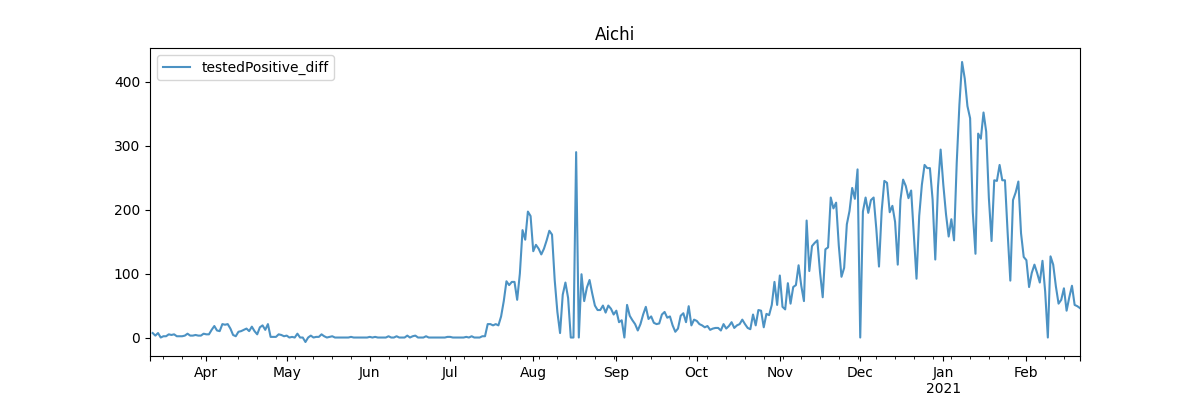
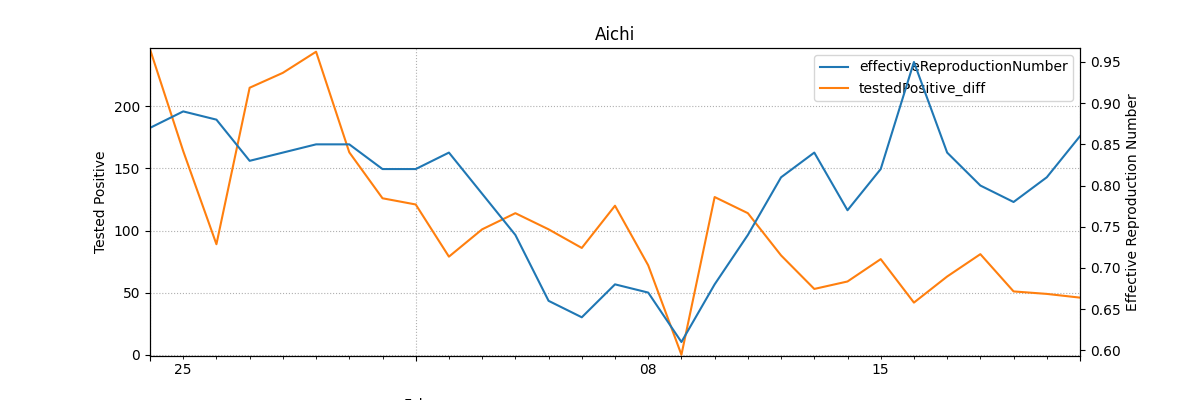
update: 実行再生産数とそのY軸ラベルを追加、範囲を過去1か月に限定

diff --git a/main.py b/main.py
@@ -1,8 +1,10 @@
 import csv
+import math
 
 import pandas as pd
 import matplotlib as mpl
 import matplotlib.pyplot as plt
+import numpy as np
 
 CSV_PATH = "./prefectures.csv"
 pref_list = set()
@@ -27,8 +29,26 @@ for pref in pref_list:
 
     df.to_csv(f"./output/{pref}.csv")
 
+    del df["testedPositive"], df["peopleTested"], df["hospitalized"], df["discharged"], df["deaths"]
+
+    df = df[("2021/1/24" <= df.index) & (df.index <= "2021/2/24")]
+
     plt.figure()
-    df.plot(y=["testedPositive_diff",], figsize=(12,4), alpha=0.8)
+    ax = df.plot(secondary_y=["effectiveReproductionNumber",], style=["-", "-"], grid=False, mark_right=False, figsize=(12, 4))
+    
+    # view settings
+    desc = df.describe()
+    ax.set_ylim(math.floor(desc["testedPositive_diff"]["min"]) - 1, math.ceil(desc["testedPositive_diff"]["max"]) + 1)
+    # ax.right_ax.set_ylim(math.floor(desc["effectiveReproductionNumber"]["min"]) - 1, math.ceil(desc["effectiveReproductionNumber"]["max"]) + 1)
+
+    # grid settings
+    ax.grid(True, linestyle=':')
+
+    # label settings
     plt.title(pref)
+    ax.set_ylabel("Tested Positive")
+    ax.right_ax.set_ylabel("Effective Reproduction Number")
+    ax.set_xlabel("Date")
+
     plt.savefig(f"./output/{pref}.png")
     plt.close("all")
